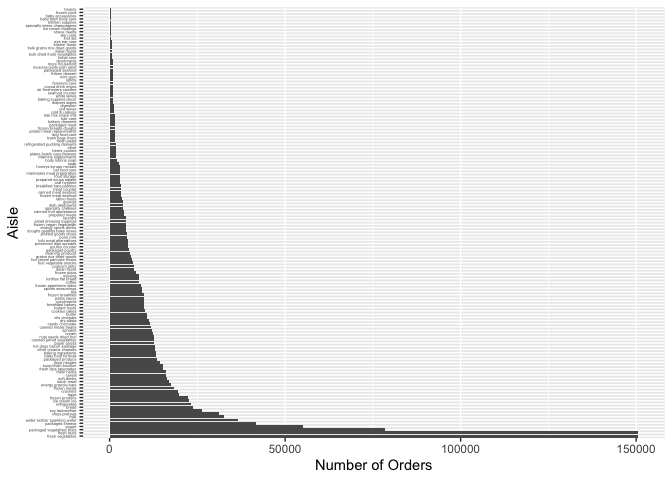
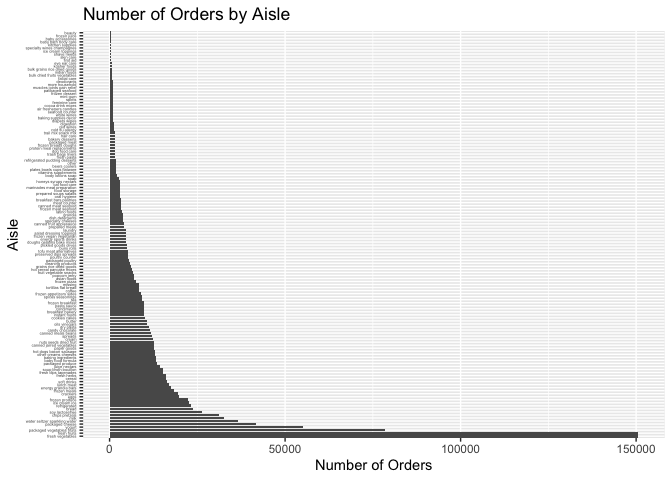
Final entry of homework

Changed region(s): [[0.0, 0.0, 1.0, 0.9062], [0.1562, 0.25, 0.1875, 0.3125]]

diff --git a/p8105_hw3_jgc2157.md b/p8105_hw3_jgc2157.md
@@ -7,31 +7,7 @@ Load libraries
 
 ``` r
 library(tidyverse)
-```
-
-    ## ── Attaching packages ─────────────────────────────────────── tidyverse 1.3.1 ──
-
-    ## ✓ ggplot2 3.3.5     ✓ purrr   0.3.4
-    ## ✓ tibble  3.1.4     ✓ dplyr   1.0.7
-    ## ✓ tidyr   1.1.3     ✓ stringr 1.4.0
-    ## ✓ readr   2.0.1     ✓ forcats 0.5.1
-
-    ## ── Conflicts ────────────────────────────────────────── tidyverse_conflicts() ──
-    ## x dplyr::filter() masks stats::filter()
-    ## x dplyr::lag()    masks stats::lag()
-
-``` r
 library(janitor)
-```
-
-    ## 
-    ## Attaching package: 'janitor'
-
-    ## The following objects are masked from 'package:stats':
-    ## 
-    ##     chisq.test, fisher.test
-
-``` r
 library(readr)
 ```
 
@@ -48,95 +24,78 @@ Exploring instacart
 
 ``` r
 names(instacart)
-```
-
-    ##  [1] "order_id"               "product_id"             "add_to_cart_order"     
-    ##  [4] "reordered"              "user_id"                "eval_set"              
-    ##  [7] "order_number"           "order_dow"              "order_hour_of_day"     
-    ## [10] "days_since_prior_order" "product_name"           "aisle_id"              
-    ## [13] "department_id"          "aisle"                  "department"
-
-``` r
+##  [1] "order_id"               "product_id"             "add_to_cart_order"     
+##  [4] "reordered"              "user_id"                "eval_set"              
+##  [7] "order_number"           "order_dow"              "order_hour_of_day"     
+## [10] "days_since_prior_order" "product_name"           "aisle_id"              
+## [13] "department_id"          "aisle"                  "department"
 summary(instacart)
-```
-
-    ##     order_id         product_id    add_to_cart_order   reordered     
-    ##  Min.   :      1   Min.   :    1   Min.   : 1.000    Min.   :0.0000  
-    ##  1st Qu.: 843370   1st Qu.:13380   1st Qu.: 3.000    1st Qu.:0.0000  
-    ##  Median :1701880   Median :25298   Median : 7.000    Median :1.0000  
-    ##  Mean   :1706298   Mean   :25556   Mean   : 8.758    Mean   :0.5986  
-    ##  3rd Qu.:2568023   3rd Qu.:37940   3rd Qu.:12.000    3rd Qu.:1.0000  
-    ##  Max.   :3421070   Max.   :49688   Max.   :80.000    Max.   :1.0000  
-    ##     user_id         eval_set          order_number      order_dow    
-    ##  Min.   :     1   Length:1384617     Min.   :  4.00   Min.   :0.000  
-    ##  1st Qu.: 51732   Class :character   1st Qu.:  6.00   1st Qu.:1.000  
-    ##  Median :102933   Mode  :character   Median : 11.00   Median :3.000  
-    ##  Mean   :103113                      Mean   : 17.09   Mean   :2.701  
-    ##  3rd Qu.:154959                      3rd Qu.: 21.00   3rd Qu.:5.000  
-    ##  Max.   :206209                      Max.   :100.00   Max.   :6.000  
-    ##  order_hour_of_day days_since_prior_order product_name          aisle_id    
-    ##  Min.   : 0.00     Min.   : 0.00          Length:1384617     Min.   :  1.0  
-    ##  1st Qu.:10.00     1st Qu.: 7.00          Class :character   1st Qu.: 31.0  
-    ##  Median :14.00     Median :15.00          Mode  :character   Median : 83.0  
-    ##  Mean   :13.58     Mean   :17.07                             Mean   : 71.3  
-    ##  3rd Qu.:17.00     3rd Qu.:30.00                             3rd Qu.:107.0  
-    ##  Max.   :23.00     Max.   :30.00                             Max.   :134.0  
-    ##  department_id      aisle            department       
-    ##  Min.   : 1.00   Length:1384617     Length:1384617    
-    ##  1st Qu.: 4.00   Class :character   Class :character  
-    ##  Median : 8.00   Mode  :character   Mode  :character  
-    ##  Mean   : 9.84                                        
-    ##  3rd Qu.:16.00                                        
-    ##  Max.   :21.00
-
-``` r
+##     order_id         product_id    add_to_cart_order   reordered     
+##  Min.   :      1   Min.   :    1   Min.   : 1.000    Min.   :0.0000  
+##  1st Qu.: 843370   1st Qu.:13380   1st Qu.: 3.000    1st Qu.:0.0000  
+##  Median :1701880   Median :25298   Median : 7.000    Median :1.0000  
+##  Mean   :1706298   Mean   :25556   Mean   : 8.758    Mean   :0.5986  
+##  3rd Qu.:2568023   3rd Qu.:37940   3rd Qu.:12.000    3rd Qu.:1.0000  
+##  Max.   :3421070   Max.   :49688   Max.   :80.000    Max.   :1.0000  
+##     user_id         eval_set          order_number      order_dow    
+##  Min.   :     1   Length:1384617     Min.   :  4.00   Min.   :0.000  
+##  1st Qu.: 51732   Class :character   1st Qu.:  6.00   1st Qu.:1.000  
+##  Median :102933   Mode  :character   Median : 11.00   Median :3.000  
+##  Mean   :103113                      Mean   : 17.09   Mean   :2.701  
+##  3rd Qu.:154959                      3rd Qu.: 21.00   3rd Qu.:5.000  
+##  Max.   :206209                      Max.   :100.00   Max.   :6.000  
+##  order_hour_of_day days_since_prior_order product_name          aisle_id    
+##  Min.   : 0.00     Min.   : 0.00          Length:1384617     Min.   :  1.0  
+##  1st Qu.:10.00     1st Qu.: 7.00          Class :character   1st Qu.: 31.0  
+##  Median :14.00     Median :15.00          Mode  :character   Median : 83.0  
+##  Mean   :13.58     Mean   :17.07                             Mean   : 71.3  
+##  3rd Qu.:17.00     3rd Qu.:30.00                             3rd Qu.:107.0  
+##  Max.   :23.00     Max.   :30.00                             Max.   :134.0  
+##  department_id      aisle            department       
+##  Min.   : 1.00   Length:1384617     Length:1384617    
+##  1st Qu.: 4.00   Class :character   Class :character  
+##  Median : 8.00   Mode  :character   Mode  :character  
+##  Mean   : 9.84                                        
+##  3rd Qu.:16.00                                        
+##  Max.   :21.00
 instacart %>%
   distinct(user_id) %>%
   nrow()
-```
-
-    ## [1] 131209
-
-``` r
+## [1] 131209
 instacart %>%
   group_by(department) %>%
   summarise(mean(order_hour_of_day, na.rm = TRUE))
-```
-
-    ## # A tibble: 21 × 2
-    ##    department      `mean(order_hour_of_day, na.rm = TRUE)`
-    ##    <chr>                                             <dbl>
-    ##  1 alcohol                                            13.7
-    ##  2 babies                                             13.5
-    ##  3 bakery                                             13.5
-    ##  4 beverages                                          13.5
-    ##  5 breakfast                                          13.5
-    ##  6 bulk                                               13.6
-    ##  7 canned goods                                       13.6
-    ##  8 dairy eggs                                         13.6
-    ##  9 deli                                               13.6
-    ## 10 dry goods pasta                                    13.7
-    ## # … with 11 more rows
-
-``` r
+## # A tibble: 21 × 2
+##    department      `mean(order_hour_of_day, na.rm = TRUE)`
+##    <chr>                                             <dbl>
+##  1 alcohol                                            13.7
+##  2 babies                                             13.5
+##  3 bakery                                             13.5
+##  4 beverages                                          13.5
+##  5 breakfast                                          13.5
+##  6 bulk                                               13.6
+##  7 canned goods                                       13.6
+##  8 dairy eggs                                         13.6
+##  9 deli                                               13.6
+## 10 dry goods pasta                                    13.7
+## # … with 11 more rows
 instacart %>%
   count(aisle, sort = TRUE)
+## # A tibble: 134 × 2
+##    aisle                              n
+##    <chr>                          <int>
+##  1 fresh vegetables              150609
+##  2 fresh fruits                  150473
+##  3 packaged vegetables fruits     78493
+##  4 yogurt                         55240
+##  5 packaged cheese                41699
+##  6 water seltzer sparkling water  36617
+##  7 milk                           32644
+##  8 chips pretzels                 31269
+##  9 soy lactosefree                26240
+## 10 bread                          23635
+## # … with 124 more rows
 ```
-
-    ## # A tibble: 134 × 2
-    ##    aisle                              n
-    ##    <chr>                          <int>
-    ##  1 fresh vegetables              150609
-    ##  2 fresh fruits                  150473
-    ##  3 packaged vegetables fruits     78493
-    ##  4 yogurt                         55240
-    ##  5 packaged cheese                41699
-    ##  6 water seltzer sparkling water  36617
-    ##  7 milk                           32644
-    ##  8 chips pretzels                 31269
-    ##  9 soy lactosefree                26240
-    ## 10 bread                          23635
-    ## # … with 124 more rows
 
 The instacart dataset has 1,384,617 observations over 15 variables. Key
 variables in the data set include product name, department, order hour
@@ -151,20 +110,29 @@ packaged vegetables and fruits with 78,493 orders.
 Maing a plot of orders by aisle
 
 ``` r
-instacart %>%
+insta_plot <- instacart %>%
   filter(aisle >= 10000) %>%
   ggplot(aes(y = forcats::fct_infreq(aisle))) +
   geom_bar() +
   labs(y = "Aisle", x = "Number of Orders") +
-  theme(axis.text.y = element_text(size = 3))
+  theme(axis.text.y = element_text(size = 3)) +
+  ggtitle("Number of Orders by Aisle")
+
+insta_plot
 ```
 
 ![](p8105_hw3_jgc2157_files/figure-gfm/unnamed-chunk-4-1.png)<!-- -->
 
+``` r
+ggsave("insta_plot.png")
+```
+
 Making a table of top three items for baking ingredients, dog food care,
-and packaged fruits and vegetables Steps: 1. filter to relevant aisles
-2. group by aisle and identify top 3 rows 3. Add ranking 4. Pivot the
-table wider and unite products with purchase counts
+and packaged fruits and vegetables.
+
+Steps: 1. filter to relevant aisles 2. group by aisle and identify top 3
+rows 3. Add ranking 4. Pivot the table wider and unite products with
+purchase counts
 
 ``` r
 top3_table <- instacart %>%
@@ -206,11 +174,6 @@ hour_table <- instacart %>%
   summarise(mean_time = mean(order_hour_of_day, na.rm = TRUE)) %>%
   pivot_wider(names_from = order_dow, values_from = mean_time) %>%
   knitr::kable(caption = "Ice Cream and Apple Purchases by Day", digits = 2)
-```
-
-    ## `summarise()` has grouped output by 'product_name'. You can override using the `.groups` argument.
-
-``` r
 hour_table
 ```
 
@@ -250,43 +213,38 @@ brfss %>%
   group_by(state) %>%
   summarise(n_locations = n_distinct(location)) %>%
   filter(n_locations >= 7)
-```
-
-    ## # A tibble: 6 × 2
-    ##   state n_locations
-    ##   <chr>       <int>
-    ## 1 CT              7
-    ## 2 FL              7
-    ## 3 MA              8
-    ## 4 NC              7
-    ## 5 NJ              8
-    ## 6 PA             10
-
-``` r
+## # A tibble: 6 × 2
+##   state n_locations
+##   <chr>       <int>
+## 1 CT              7
+## 2 FL              7
+## 3 MA              8
+## 4 NC              7
+## 5 NJ              8
+## 6 PA             10
 brfss %>%
   filter(year == 2010) %>%
   group_by(state) %>%
   summarise(n_locations = n_distinct(location)) %>%
   filter(n_locations >= 7)
+## # A tibble: 14 × 2
+##    state n_locations
+##    <chr>       <int>
+##  1 CA             12
+##  2 CO              7
+##  3 FL             41
+##  4 MA              9
+##  5 MD             12
+##  6 NC             12
+##  7 NE             10
+##  8 NJ             19
+##  9 NY              9
+## 10 OH              8
+## 11 PA              7
+## 12 SC              7
+## 13 TX             16
+## 14 WA             10
 ```
-
-    ## # A tibble: 14 × 2
-    ##    state n_locations
-    ##    <chr>       <int>
-    ##  1 CA             12
-    ##  2 CO              7
-    ##  3 FL             41
-    ##  4 MA              9
-    ##  5 MD             12
-    ##  6 NC             12
-    ##  7 NE             10
-    ##  8 NJ             19
-    ##  9 NY              9
-    ## 10 OH              8
-    ## 11 PA              7
-    ## 12 SC              7
-    ## 13 TX             16
-    ## 14 WA             10
 
 In 2002, the states with 7 or more locations in the BRFSS data were CT,
 FL, MA, NC, NC, NJ, and PA.
@@ -306,9 +264,15 @@ spag_plot <- brfss %>%
   xlab("Year") +
   ylab("Average Data Value") +
   ggtitle("Spaghetti Plot of Average Data Values by State between 2002 and 2010")
+
+spag_plot
 ```
 
-    ## `summarise()` has grouped output by 'state'. You can override using the `.groups` argument.
+![](p8105_hw3_jgc2157_files/figure-gfm/unnamed-chunk-10-1.png)<!-- -->
+
+``` r
+ggsave("spag_plot.png")
+```
 
 In the spaghetti plot of average data values by state between 2002 and
 2010, many states fluctuate widely from year to year and it is difficult
@@ -327,6 +291,14 @@ facet_plot <- brfss %>%
   xlab("Data Value") +
   ggtitle("Distribution of New York Data Values in 2002 and 2010") +
   facet_grid(cols = vars(year))
+
+facet_plot
+```
+
+![](p8105_hw3_jgc2157_files/figure-gfm/unnamed-chunk-11-1.png)<!-- -->
+
+``` r
+ggsave("facet_plot.png")
 ```
 
 From the facet grid of New York data values in 2002 and 2010, data
@@ -340,17 +312,6 @@ equal number of 0 values as 30 values.
 accel_data <- read_csv("Data/accel_data.csv") %>%
   clean_names()
 ```
-
-    ## Rows: 35 Columns: 1443
-
-    ## ── Column specification ────────────────────────────────────────────────────────
-    ## Delimiter: ","
-    ## chr    (1): day
-    ## dbl (1442): week, day_id, activity.1, activity.2, activity.3, activity.4, ac...
-
-    ## 
-    ## ℹ Use `spec()` to retrieve the full column specification for this data.
-    ## ℹ Specify the column types or set `show_col_types = FALSE` to quiet this message.
 
 Pivoting the accel data set long
 
@@ -415,8 +376,6 @@ time_plot
 ``` r
 ggsave("time_plot.png")
 ```
-
-    ## Saving 7 x 5 in image
 
 In the plot of activity throughout the day stratified by day of week, we
 can see that, overall, the activity value is under 2,500 the majority of
